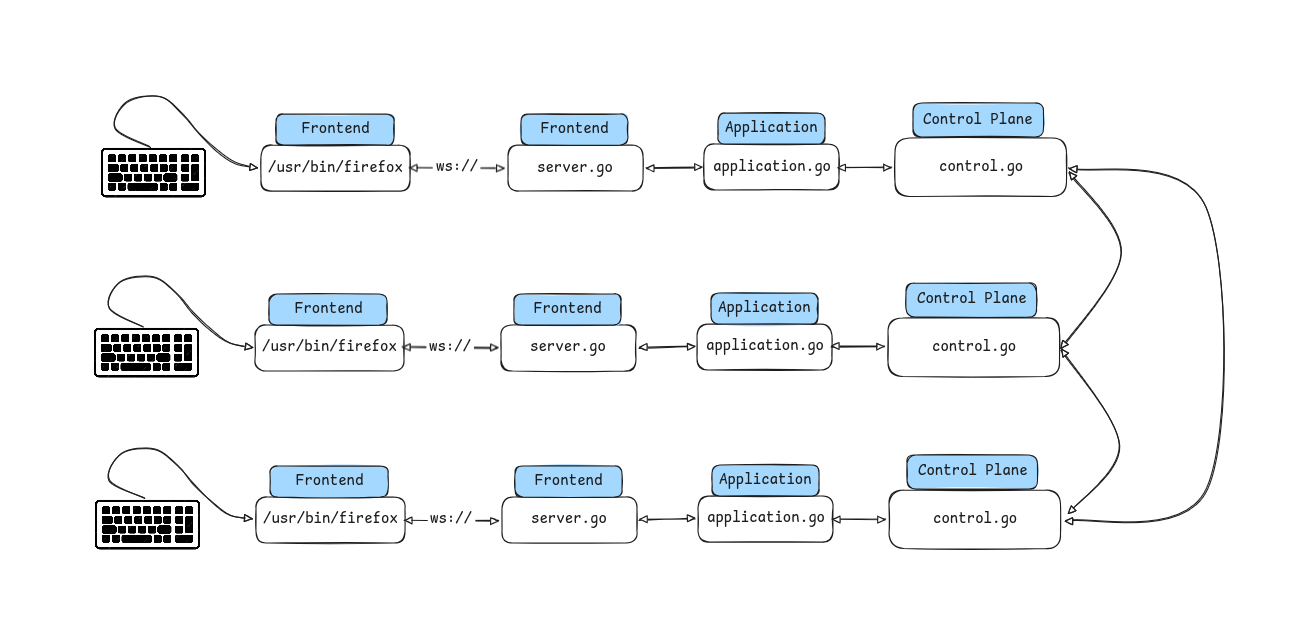
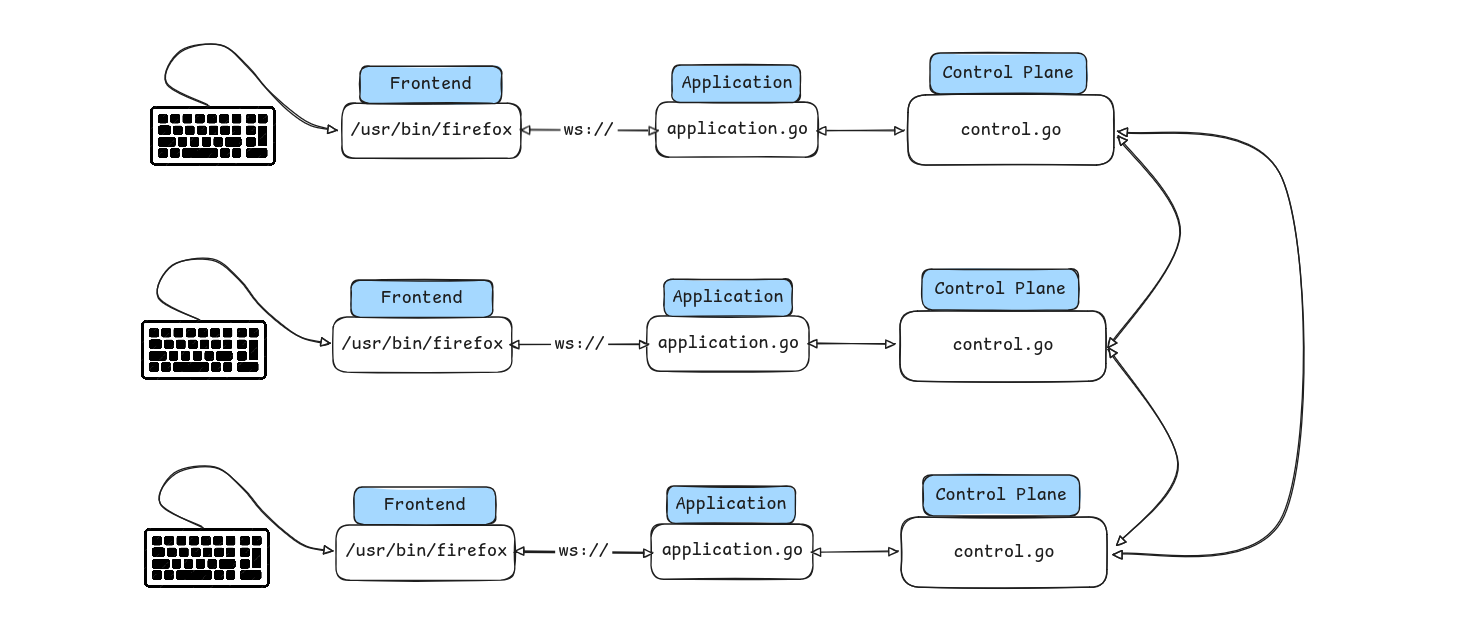
chore: update README

diff --git a/README.md b/README.md
@@ -64,41 +64,43 @@ Le projet porte sur la création d'une application répartie respectant les cont
 
 ## Organisation du projet
 
-Pour info : j'ai commencé à créer des fichiers un peu au piff histoire de pouvoir push les dossiers, mais c'est à revoir
-
 ```bash
-* cmd/
-  * application/
-    * main.go       # Lance l'application (créé un logger, un io, et on lance internal/application)
-  * control/
-    * main.go       # Lance le contrôle (créé un logger, un io, et on lance internal/control)
-  * server/
-    * main.go       # Lance le serveur (créé un logger, un io, et on lance internal/server)
-* internal/
-  * application/
-    * app.go        # Contient la logique principale de l'application
-    * filter.go     # Forme un filtre sur ce que l'on souhaite forward ou non au server (ce que le joueur a le droit de voir ou pas)
-    * state.go      # Contient les structures de données représentant l'état du jeu côté application
-  * control/
-    * control.go    # Contient la logique principale du centre de contrôle
-    * state.go      # Contient les structures de données représentant l'état du jeu côté centre de contrôle
-    * <horloge.go, snapshot.go...> Enfin bref ce qui est demandé pour le projet
-  * server/
-    * server.go     # Gère le serveur (pour communiquer via ws avec un navigateur)
-* pkg/
-  * logger/
-    * logger.go     # Logger mis en forme (couleur, nom des processus, PID, etc.)
-  * transport/
-    * io.go         # Gère la lecture sur stdin et écriture sur stdout
-    * messages.go   # Gère la construction et lectures des messages envoyés/reçus
-* web/
-  * index.html
-  * ...
-* scripts/
-  * 4-ring.sh
-  * 5-mesh.sh
-  * 7-ring_with_ctl.sh
-  * ...
+├── 0-old
+│   └── ... # Contient les différentes étapes de l'activité "Projet" sur Moodle
+├── cmd
+│   ├── application
+│   │   └── main.go # Lance l'application (internal/application/app.go) ainsi que le server (internal/server/server.go) qui maintient la websocket avec le frontend
+│   └── control
+│       └── main.go # Lance le centre de contrôle (internal/control/control.go) qui communique dans notre système réparti 
+├── docs
+│   └── ... # Contient les images utilisées par le README
+├── internal
+│   ├── application
+│   │   ├── app.go # Contient la logique principale de l'application
+│   │   ├── filter.go # Forme un filtre sur ce que l'on souhaite forward ou non au server (ce que le joueur a le droit de voir ou pas)
+│   │   └── state.go # Contient les structures de données représentant l'état du jeu côté application
+│   ├── control
+│   │   ├── control.go # Contient la logique principale du centre de contrôle
+│   │   └── state.go # Contient les structures de données représentant l'état du jeu côté centre de contrôle
+│   └── server
+│       └── server.go # Gère le serveur (pour communiquer via ws avec un navigateur)
+├── pkg
+│   ├── logger
+│   │   └── logger.go # Logger mis en forme (couleur, nom des processus, PID, etc.)
+│   └── transport
+│       ├── io.go # Gère la lecture sur stdin et écriture sur stdout
+│       └── message.go # Gère la construction et lectures des messages envoyés/reçus
+├── web # Fichiers web utilisés par le frontend
+│   ├── index.html
+│   └── style.css
+├── scripts
+│   └── local.sh # Script permettant de préparer le réseau sur lequel tourne notre système réparti
+├── go.mod
+├── go.sum
+├── Makefile
+├── README.md
+└── TODO
+
 ```
 
 ## Modélisation d'un état du jeu
@@ -129,11 +131,8 @@ GameState{
 ## Communication entre les processus
 
 ```
-Navigateur ---- JSON ----> Server
-Server     --- "/=type=state/=data={}" ---> Navigateur # TODO : c'est à revoir ça
-
-Server ---- Transparent ----> Application
-Application ---- Transparent ----> Server
+Navigateur ---- JSON ----> Application
+Application     --- "/=type=state/=data={}" ---> Navigateur # TODO : c'est à revoir ça
 
 Application --- "/=type=.../=..." ---> Control
 Control --- "/=type=state/=data={}" ---> Application
@@ -166,17 +165,15 @@ Control --- "BROADCAST:/=from=.../" ---> [réseau] -> autres Controls # Le from 
 { "action": "witchpass" }
 ```
 
-### Serveur -> Navigateur
+### Application -> Navigateur
 
-On forward tout de l'application de manière bête et méchante
-
-Soit un état complet du jeu : `/=type=state/=data={"phase":"VOTE","players":{...},"votes":{...},"myId":"J3"}`
-
-Soit une erreur : `/=type=error/=msg=action interdite pendant cette phase`
+On forward tout de l'application en encapsulant le JSON de l'état du jeu dans un champ "data" avec notre format de message. Les deux cas possibles sont
+* Soit un état complet du jeu : `/=type=state/=data={"phase":"VOTE","players":{...},"votes":{...},"myId":"J3"}`
+* Soit une erreur : `/=type=error/=msg=action interdite pendant cette phase`
 
 ### Application -> Control
 
-Même format que Navigateur -> Serveur mais au format imposé dans l'énoncé (comme `/=type=join/=player=J3` par exemple)
+Même format que Navigateur -> Application mais au format imposé dans l'énoncé (comme `/=type=join/=player=J3` par exemple)
 
 ### Control -> Control
 